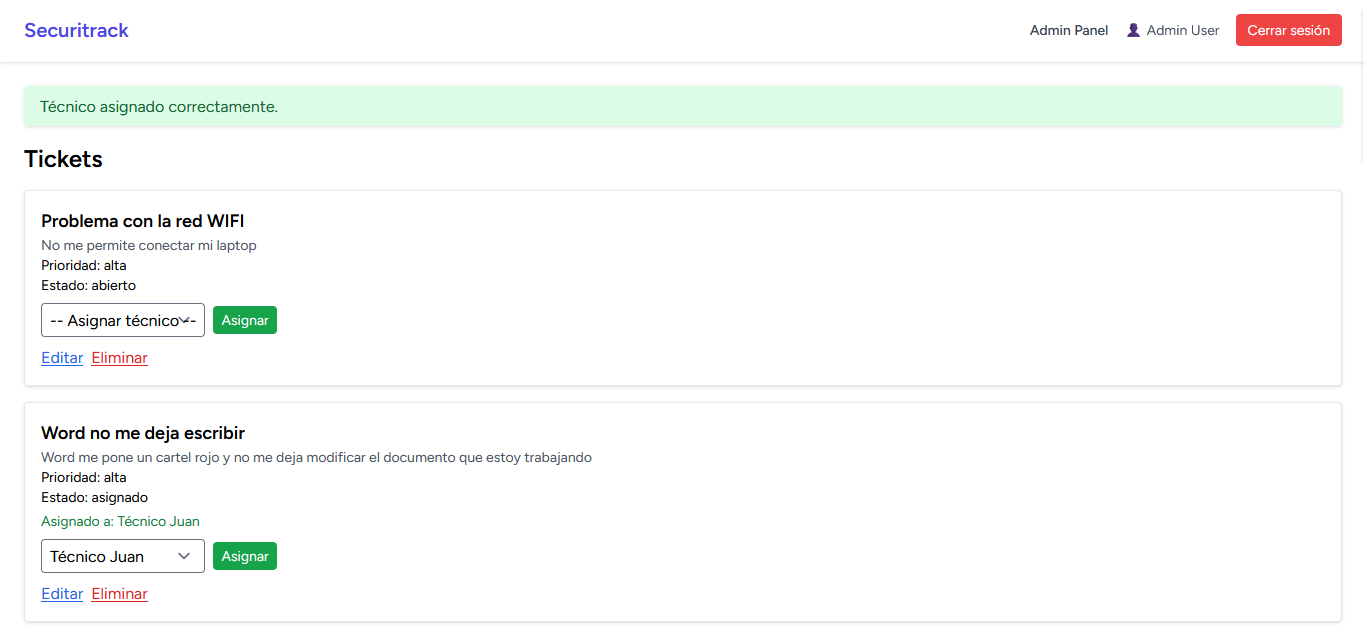
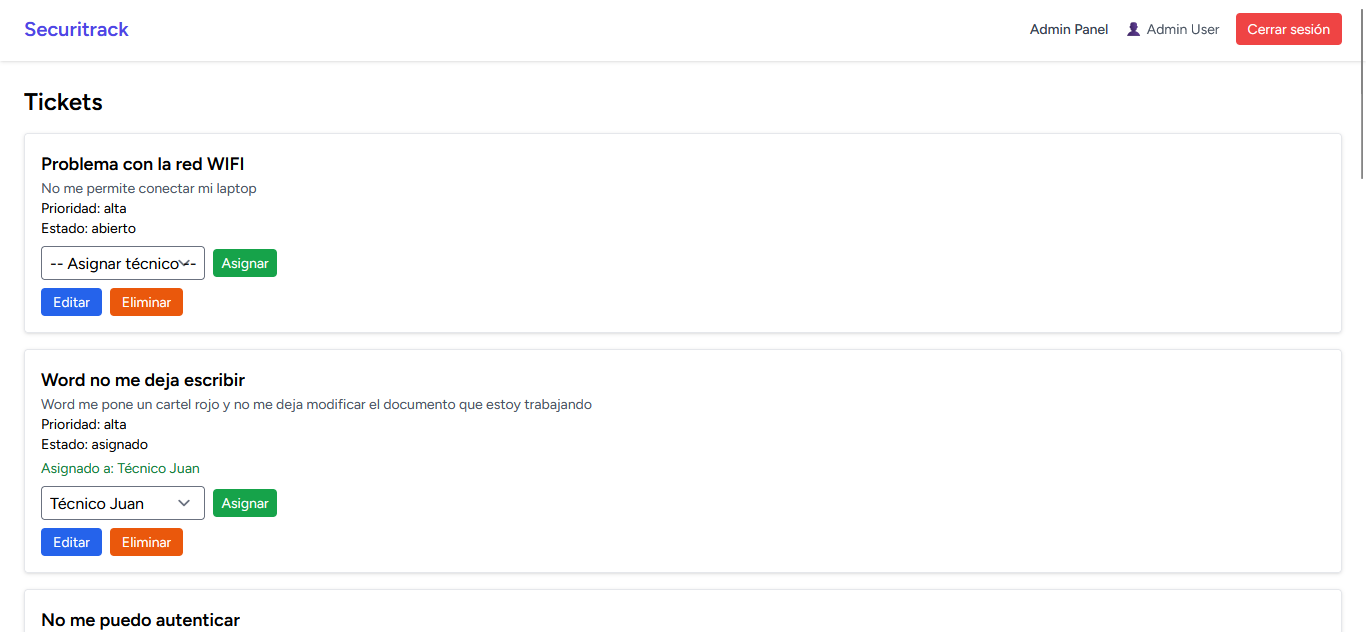
docs: Dashboard

diff --git a/resources/js/Pages/Admin/Components/TicketStatusChart.vue b/resources/js/Pages/Admin/Components/TicketStatusChart.vue
@@ -1,0 +1,55 @@
+<template>
+    <div>
+      <h2 class="text-xl font-bold mb-4">Tickets por estado</h2>
+      <div class="w-full flex justify-center">
+      <div class="w-[400px] h-[300px]">
+      <canvas ref="chartRef"></canvas>
+    </div>
+    </div>
+    </div>
+
+    
+
+  </template>
+  
+  <script setup>
+  import { onMounted, ref } from 'vue'
+  import { Chart, registerables } from 'chart.js'
+  Chart.register(...registerables)
+  
+  const chartRef = ref(null)
+  
+  onMounted(async () => {
+    const response = await fetch('/admin/dashboard/stats')
+    const data = await response.json()
+  
+    const labels = Object.keys(data)
+    const values = Object.values(data)
+  
+    new Chart(chartRef.value, {
+      type: 'pie',
+      data: {
+        labels: labels,
+        datasets: [{
+          label: 'Tickets',
+          data: values,
+          backgroundColor: [
+            '#4ade80', // verde
+            '#60a5fa', // azul
+            '#facc15', // amarillo
+            '#f87171', // rojo
+          ],
+        }]
+      },
+      options: {
+        responsive: true,
+        plugins: {
+          legend: {
+            position: 'bottom',
+          },
+        }
+      }
+    })
+  })
+  </script>
+  

diff --git a/resources/js/Pages/Admin/Dashboard.vue b/resources/js/Pages/Admin/Dashboard.vue
@@ -1,12 +1,16 @@
 <script setup>
 import { defineProps } from 'vue'
 import AppLayout from '@/Layouts/AppLayout.vue'
+import TicketStatusChart from './Components/TicketStatusChart.vue'
 defineOptions({ layout: AppLayout })
 
 const props = defineProps({
   stats: Object
 })
 </script>
+
+
+
 
 <template>
   <div>
@@ -32,8 +36,8 @@ const props = defineProps({
     </div>
 
     <!-- Espacio para gráfico -->
-    <div class="bg-white p-6 rounded shadow text-center text-gray-500">
-     agregar un gráfico de barras o pastel más adelante.
+    <div class="bg-white p-6 rounded shadow text-center text-gray-500">      
+      <TicketStatusChart />    
     </div>
   </div>
 </template>

diff --git a/resources/js/Pages/Tickets/Index.vue b/resources/js/Pages/Tickets/Index.vue
@@ -60,14 +60,14 @@
         <div class="mt-2 flex gap-2">
           <Link
             :href="`/tickets/${ticket.id}/edit`"
-            class="text-blue-600 underline"
+            class="bg-blue-600 text-white px-3 py-1 rounded text-sm"
           >
             Editar
           </Link>
 
           <button
             @click="deleteTicket(ticket.id)"
-            class="text-red-600 underline"
+            class="bg-orange-600 text-white px-3 py-1 rounded text-sm"
           >
             Eliminar
           </button>

diff --git a/routes/web.php b/routes/web.php
@@ -8,6 +8,7 @@ use App\Http\Controllers\ProfileController;
 use App\Http\Controllers\TicketController;
 use App\Http\Middleware\IsAdmin;
 use App\Http\Middleware\IsTechnician;
+use App\Http\Controllers\Admin\DashboardStatsController;
 
 // Página de bienvenida (pública)
 Route::get('/', function () {
@@ -45,6 +46,7 @@ Route::middleware('auth')->group(function () {
     Route::middleware([IsAdmin::class])->group(function () {
         Route::put('/tickets/{ticket}/assign', [TicketController::class, 'assign'])->name('tickets.assign');
         Route::get('/admin/dashboard', [TicketController::class, 'dashboard'])->name('admin.dashboard');
+        Route::get('/admin/dashboard/stats', [DashboardStatsController::class, 'ticketStatus']);
     });
 
     // Rutas solo para TÉCNICO

diff --git a/app/Http/Controllers/Admin/DashboardStatsController.php b/app/Http/Controllers/Admin/DashboardStatsController.php
@@ -1,0 +1,18 @@
+<?php
+
+namespace App\Http\Controllers\Admin;
+
+use App\Http\Controllers\Controller;
+use App\Models\Ticket;
+
+class DashboardStatsController extends Controller
+{
+    public function ticketStatus()
+    {
+        $stats = Ticket::selectRaw('status, COUNT(*) as count')
+            ->groupBy('status')
+            ->pluck('count', 'status');
+
+        return response()->json($stats);
+    }
+}
